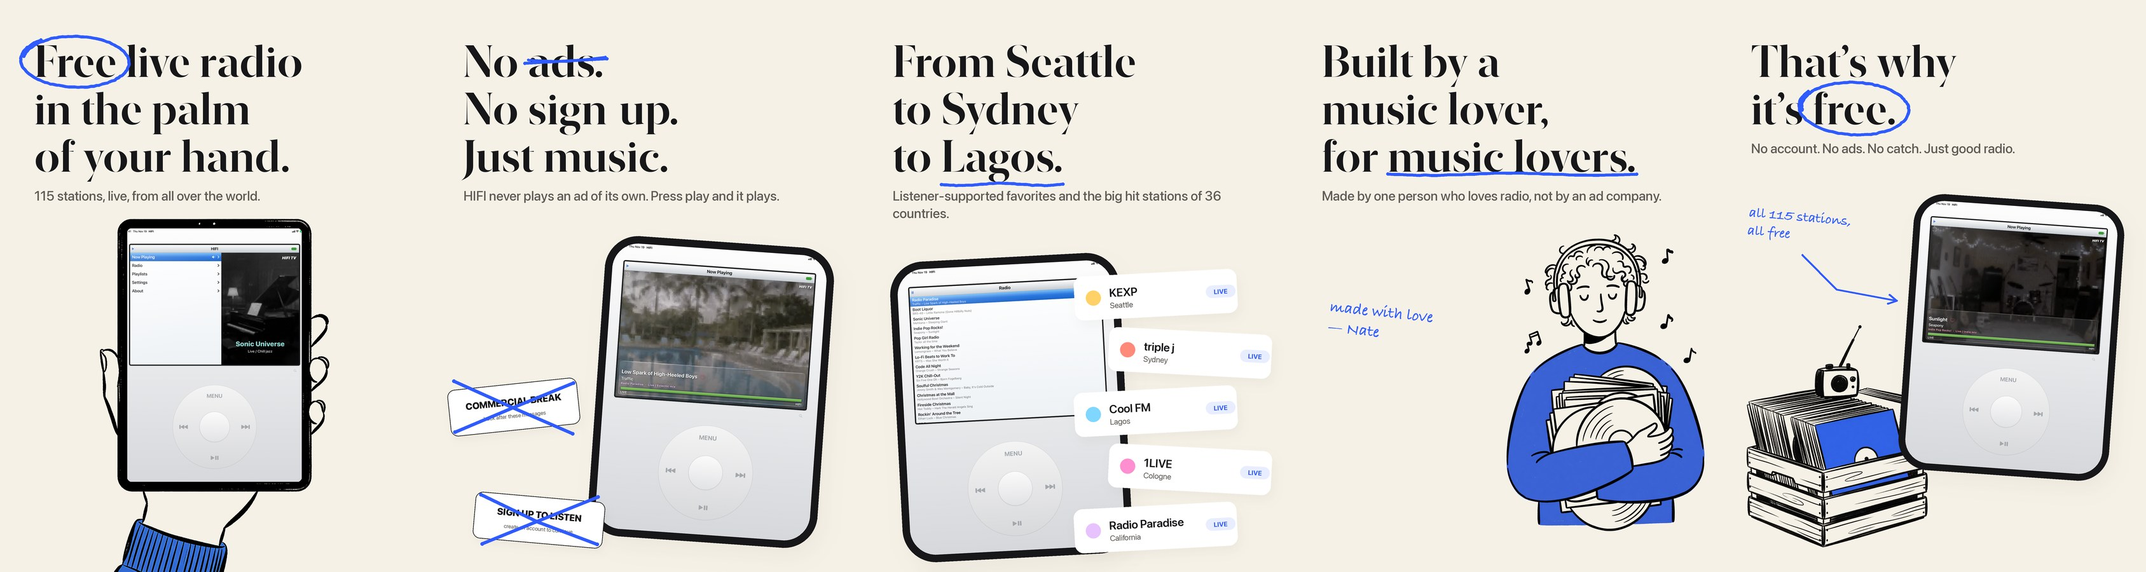
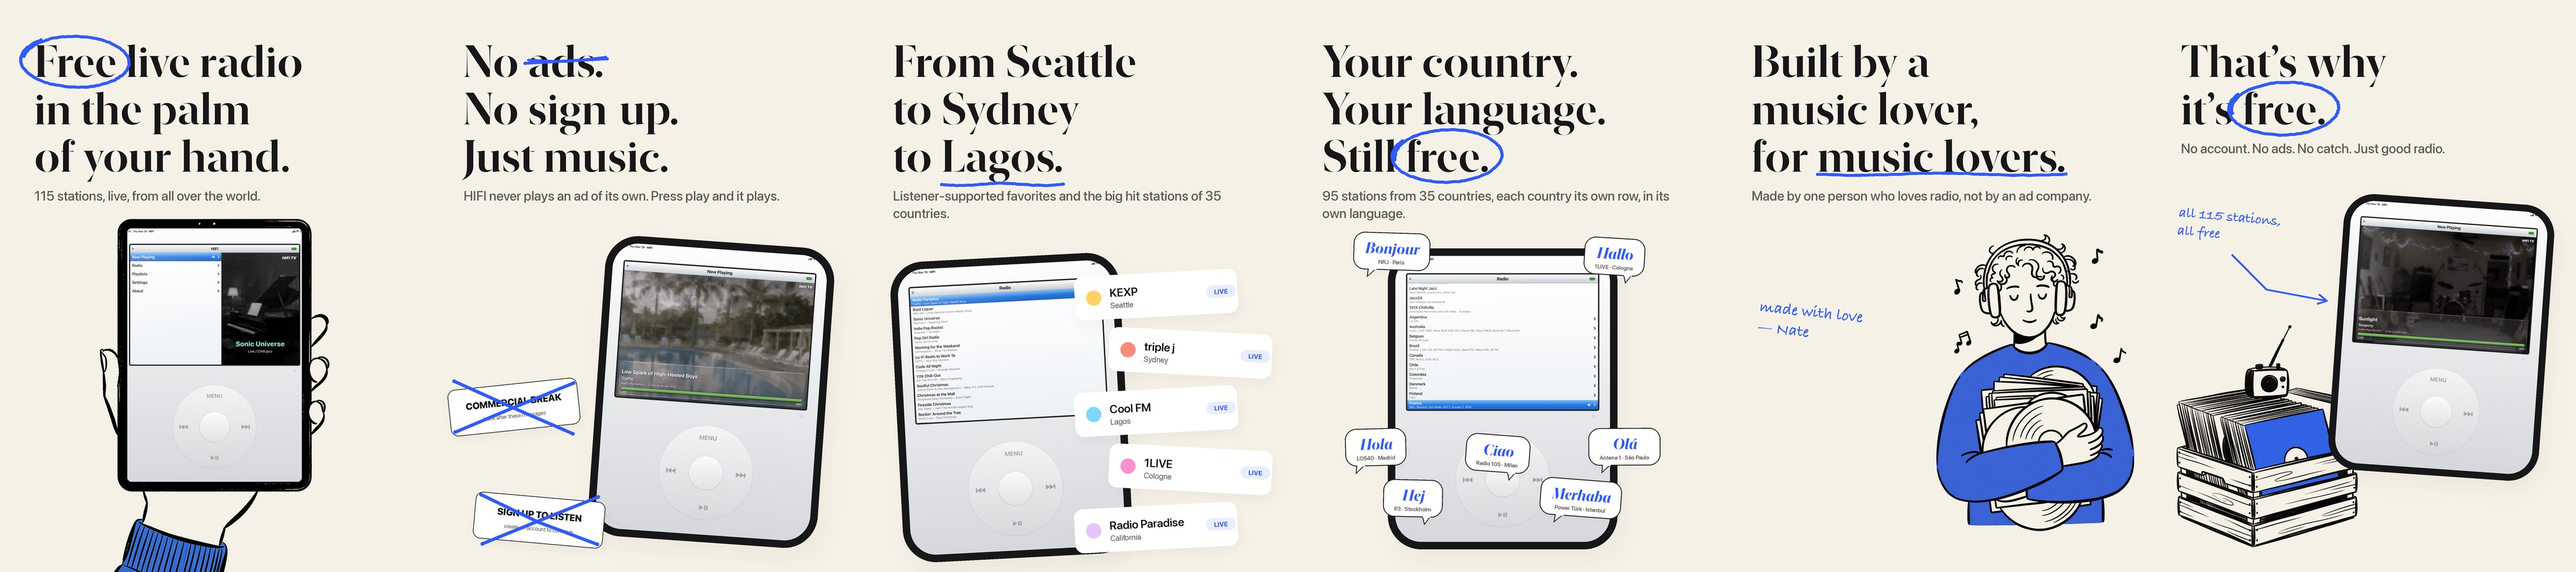
App Store: the story screenshots say HIFI is free with each country's own stations in its own language (Nate, Nov 19: "emphasize that it's free with country specific streams in all the languages that we have"). A new fourth slide, "Your country. Your language. Still free.", shows the Radio list on i

Changed region(s): [[0.0, 0.0622, 0.9956, 0.9956], [0.0, 0.0622, 0.1556, 0.2178], [0.0311, 0.9022, 0.1244, 1.0]]

diff --git a/ios/Sources/IPod.swift b/ios/Sources/IPod.swift
@@ -144,9 +144,16 @@ struct IPodView: View {
                 }
             }
             #endif
-            // App Store screenshots: `-screenshot home|tv|synthTV|radio|synth|nowPlaying|live|playlists|connect` opens that page.
+            // App Store screenshots: `-screenshot home|tv|synthTV|radio|world|synth|nowPlaying|live|playlists|connect` opens that page.
             switch UserDefaults.standard.string(forKey: "screenshot") {
             case "radio", "synth": stack = [.main, .band("radio")]
+            case "world":  // the Radio list on its country rows, a French station playing
+                if let station = radio.stations.first(where: { $0.id == "nrj" }) { radio.tune(station) }
+                stack = [.main, .band("radio")]
+                // after the list is up, so the change scrolls it down to France's row
+                DispatchQueue.main.asyncAfter(deadline: .now() + 1) {
+                    if let index = playingRow("radio") { selection[.band("radio")] = index }
+                }
             case "nowPlaying": radio.start(); stack = [.main, .nowPlaying]
             case "settings": stack = [.main, .settings]
             case "playlists": stack = [.main, .playlists]

diff --git a/ios/scripts/story-screenshots.py b/ios/scripts/story-screenshots.py
@@ -1,7 +1,8 @@
 #!/usr/bin/env python3
-"""The story App Store screenshots: five slides that read as one strip, in an ink-and-paper
-style. Free live radio in your hand; no ads; stations from everywhere; built by a music
-lover for music lovers; that's why it's free.
+"""The story App Store screenshots: six slides that read as one strip, in an ink-and-paper
+style. Free live radio in your hand; no ads; stations from everywhere; your own country's
+stations in your own language, still free; built by a music lover for music lovers; that's
+why it's free. The station and country counts come from stations.json.
 
 Inputs: the raw simulator captures in Screenshots/story/raw/{iphone,ipad} (capture with
 HIFI_SHOTS_RAW=Screenshots/story/raw scripts/capture-screenshots.sh) and the ink drawings in
@@ -26,14 +27,22 @@ INK = (23, 23, 26)
 BLUE = (47, 91, 255)
 MUTED = (96, 92, 86)
 
+# The counts in the copy, from the catalog the apps read.
+_CATALOG = json.loads(STATIONS.read_text())["stations"]
+TOTAL = len(_CATALOG)
+WORLD = sum(1 for x in _CATALOG if x.get("country"))
+COUNTRIES = len({x["country"] for x in _CATALOG if x.get("country")})
+
 # The copy, in order. Each headline is lines of (text, mark); mark is None, "circle" or "strike".
 SLIDES = [
     {"raw": "1-main", "head": [[("Free", "circle"), (" live radio", None)], [("in the palm", None)], [("of your hand.", None)]],
-     "sub": "115 stations, live, from all over the world."},
+     "sub": f"{TOTAL} stations, live, from all over the world."},
     {"raw": "2-tv", "head": [[("No ", None), ("ads.", "strike")], [("No sign-up.", None)], [("Just music.", None)]],
      "sub": "HIFI never plays an ad of its own. Press play and it plays."},
     {"raw": "3-radio", "head": [[("From Seattle", None)], [("to Sydney", None)], [("to ", None), ("Lagos.", "under")]],
-     "sub": "Listener-supported favorites and the big hit stations of 36 countries."},
+     "sub": f"Listener-supported favorites and the big hit stations of {COUNTRIES} countries."},
+    {"raw": "7-world", "head": [[("Your country.", None)], [("Your language.", None)], [("Still ", None), ("free.", "circle")]],
+     "sub": f"{WORLD} stations from {COUNTRIES} countries, each country its own row, in its own language."},
     {"raw": None, "head": [[("Built by a", None)], [("music lover,", None)], [("for ", None), ("music lovers.", "under")]],
      "sub": "Made by one person who loves radio, not by an ad company."},
     {"raw": "4-live", "head": [[("That’s why", None)], [("it’s ", None), ("free.", "circle")]],
@@ -291,6 +300,57 @@ def stations_for_cards():
     return [(name, place, data[sid].get("color") or "#2f5bff") for sid, name, place in picks if sid in data]
 
 
+# Hello in the languages the world stations speak, each with a real station in stations.json:
+# (greeting, script, station id, the station as it's known, city).
+HELLOS = [("Bonjour", "latin", "nrj", "NRJ", "Paris"), ("Hallo", "latin", "1live", "1LIVE", "Cologne"),
+          ("Hola", "latin", "los40", "LOS40", "Madrid"), ("Ciao", "latin", "radio-105", "Radio 105", "Milan"),
+          ("Olá", "latin", "antena-1", "Antena 1", "São Paulo"), ("Hej", "latin", "sr-p3", "P3", "Stockholm"),
+          ("Merhaba", "latin", "power-turk", "Power Türk", "Istanbul"), ("שלום", "hebrew", "galgalatz", "Galgalatz", "Tel Aviv"),
+          ("สวัสดี", "thai", "cool-fahrenheit", "Cool Fahrenheit", "Bangkok"), ("Kumusta", "latin", "love-radio", "Love Radio", "Manila"),
+          ("Cześć", "latin", "rmf-fm", "RMF FM", "Kraków"), ("Halo", "latin", "prambors", "Prambors", "Jakarta"),
+          ("Hoi", "latin", "qmusic", "Qmusic", "Amsterdam"), ("مرحبا", "arabic", "hit-radio", "Hit Radio", "Rabat"),
+          ("Moi", "latin", "ylex", "YleX", "Helsinki"), ("Hei", "latin", "nrk-p3", "NRK P3", "Oslo")]
+
+
+def hello_face(script, size):
+    if script == "hebrew":
+        f = ImageFont.truetype("/System/Library/Fonts/SFHebrew.ttf", size)
+        f.set_variation_by_name("Bold")
+        return f
+    if script == "thai":
+        return ImageFont.truetype("/System/Library/Fonts/Supplemental/Thonburi.ttc", size, index=1)
+    if script == "arabic":
+        return ImageFont.truetype("/System/Library/Fonts/Supplemental/GeezaPro.ttc", size, index=1)
+    return serif(size, "Bold", italic=True)
+
+
+def hellos():
+    """The HELLOS whose station is still in the catalog."""
+    ids = {x["id"] for x in _CATALOG}
+    return [(g, sc, name, city) for g, sc, sid, name, city in HELLOS if sid in ids]
+
+
+def bubble(height, greeting, script, station, city, tail_left=True):
+    """A speech bubble on paper: the hello big in blue, the station and city small under it."""
+    gf = hello_face(script, round(height * 0.4))
+    lf = sans(round(height * 0.15), "Semibold")
+    d0 = ImageDraw.Draw(Image.new("RGB", (1, 1)))
+    label = f"{station} · {city}"
+    w = round(max(d0.textlength(greeting, font=gf), d0.textlength(label, font=lf)) + height * 0.6)
+    tail = round(height * 0.22)
+    c = Image.new("RGBA", (w, height + tail), (0, 0, 0, 0))
+    d = ImageDraw.Draw(c)
+    line = max(3, height // 45)
+    tx = round(w * (0.26 if tail_left else 0.74))
+    d.polygon([(tx - tail * 0.6, height - line * 2), (tx + tail * 0.5, height - line * 2), (tx - tail * 0.2 * (1 if tail_left else -1) - tail * 0.5, height + tail - line)],
+              fill=(255, 255, 255, 255), outline=INK, width=line)
+    d.rounded_rectangle((0, 0, w - 1, height - 1), round(height * 0.3), fill=(255, 255, 255, 255), outline=INK, width=line)
+    d.line([(tx - tail * 0.6 + line, height - line), (tx + tail * 0.5 - line, height - line)], fill=(255, 255, 255, 255), width=line * 2)
+    d.text((w // 2, round(height * 0.42)), greeting, font=gf, fill=BLUE, anchor="mm")
+    d.text((w // 2, round(height * 0.78)), label, font=lf, fill=MUTED, anchor="mm")
+    return c
+
+
 def render(kind):
     raw_dir = STORY / "raw" / kind
     shots = {p.stem: Image.open(p).convert("RGB") for p in raw_dir.glob("*.png")}
@@ -344,27 +404,62 @@ def render(kind):
         cy = tops[2] + round(H * 0.08) + j * round(c.height * 1.32)
         lifted(strip, c.rotate((-1) ** j * 3, resample=Image.BICUBIC, expand=True), (cx, cy))
 
-    # 4. The music lover, the person behind it.
+    # 4. Your country, your language: the Radio list on its country rows, kept clear; the hellos
+    # sit on the phone's top corners and in staggered rows over the click wheel below the list.
     x0 = 3 * W
+    ph = phone(shots["7-world"], round(W * (0.6 if not tablet else 0.5)))
+    bezel = (ph.width - round(W * (0.6 if not tablet else 0.5))) // 2
+    phx, phy = x0 + (W - ph.width) // 2, tops[3] + round(H * 0.045)
+    lifted(strip, ph, (phx, phy))
+    list_end = phy + bezel + round((ph.height - 2 * bezel) * (0.44 if not tablet else 0.55))
+    greet = hellos()
+    bh = round(185 * s)
+    rnd = random.Random(7)
+    made = [bubble(bh, g, sc, name, city, tail_left=k % 2 == 0) for k, (g, sc, name, city) in enumerate(greet)]
+    made = [m.rotate(rnd.uniform(-5, 5), resample=Image.BICUBIC, expand=True) for m in made]
+    # the two corners: half off the phone, over its top bezel and status bar
+    lifted(strip, made[0], (phx - round(made[0].width * 0.45), phy - round(made[0].height * 0.35)), shadow=0.18)
+    lifted(strip, made[1], (phx + ph.width - round(made[1].width * 0.55), phy - round(made[1].height * 0.25)), shadow=0.18)
+    # rows under the list, as many as fit, each row spread across the page
+    y, k, row = list_end + round(H * 0.03), 2, 0
+    while k < len(made):
+        fit, width = [], 0
+        while k + len(fit) < len(made) and width + made[k + len(fit)].width <= W * 0.98 and len(fit) < (3 if row % 2 == 0 else 2):
+            width += made[k + len(fit)].width
+            fit.append(made[k + len(fit)])
+        tallest = max(m.height for m in fit)
+        if y + tallest > H - round(H * 0.012):
+            break
+        gap = (W - width) / (len(fit) + 1)
+        bx = x0 + gap
+        for m in fit:
+            lifted(strip, m, (round(bx), y + rnd.randint(-round(H * 0.006), round(H * 0.006))), shadow=0.18)
+            bx += m.width + gap
+        k += len(fit)
+        y += round(tallest * 0.96)
+        row += 1
+
+    # 5. The music lover, the person behind it.
+    x0 = 4 * W
     if not tablet:
         lover = load_art("lover", round(2150 * s))
         ink(strip, lover, (x0 + (W - lover.width) // 2, H - lover.height + round(80 * s)))
-        spot = (x0 + W - round(W * 0.42), tops[3] + round(H * 0.02))
+        spot = (x0 + W - round(W * 0.42), tops[4] + round(H * 0.02))
     else:  # below the subline, to the right, the note in the space to its left
-        lover = load_art("lover", H - tops[3] + round(H * 0.01))
-        ink(strip, lover, (x0 + W - lover.width + round(W * 0.06), tops[3] - round(H * 0.02)))
-        spot = (x0 + margin, tops[3] + round(H * 0.16))
+        lover = load_art("lover", H - tops[4] + round(H * 0.01))
+        ink(strip, lover, (x0 + W - lover.width + round(W * 0.06), tops[4] - round(H * 0.02)))
+        spot = (x0 + margin, tops[4] + round(H * 0.16))
     note(strip, "made with love\n— Nate", spot, round(64 * s) if not tablet else round(80 * s), angle=-6)
 
-    # 5. The crate of records and the app, playing.
-    x0 = 4 * W
+    # 6. The crate of records and the app, playing.
+    x0 = 5 * W
     crate = load_art("crate", round(1500 * s))
     ink(strip, crate, (x0 - round(crate.width * 0.2), H - crate.height + round(60 * s)))
     ph = phone(shots["4-live"], round(W * 0.48 if not tablet else W * 0.46))
-    lifted(strip, ph, (x0 + W - ph.width - round(W * 0.09), tops[4] + round(H * 0.06)), angle=-4)
-    note(strip, "all 115 stations,\nall free", (x0 + round(W * 0.06), tops[4] + round(H * 0.08)), round(70 * s), angle=-5)
-    arrow(strip, [(x0 + round(W * 0.2), tops[4] + round(H * 0.17)), (x0 + round(W * 0.28), tops[4] + round(H * 0.23)),
-                  (x0 + round(W * 0.42), tops[4] + round(H * 0.25))], round(9 * s), 51)
+    lifted(strip, ph, (x0 + W - ph.width - round(W * 0.09), tops[5] + round(H * 0.06)), angle=-4)
+    note(strip, f"all {TOTAL} stations,\nall free", (x0 + round(W * 0.06), tops[5] + round(H * 0.08)), round(70 * s), angle=-5)
+    arrow(strip, [(x0 + round(W * 0.2), tops[5] + round(H * 0.17)), (x0 + round(W * 0.28), tops[5] + round(H * 0.23)),
+                  (x0 + round(W * 0.42), tops[5] + round(H * 0.25))], round(9 * s), 51)
 
     out = STORY / kind
     out.mkdir(parents=True, exist_ok=True)
@@ -375,7 +470,7 @@ def render(kind):
     print("rendered", kind, W, "x", H)
 
 
-# The Mac set: the same five beats, landscape. The first headline says Mac, not hand.
+# The Mac set: the same six beats, landscape. The first headline says Mac, not hand.
 MAC_FIRST = [[("Free", "circle"), (" live radio", None)], [("on your desk.", None)]]
 
 
@@ -423,18 +518,33 @@ def render_mac():
         c = card(640, name, place, "LIVE", color)
         lifted(strip, c.rotate((-1) ** j * 3, resample=Image.BICUBIC, expand=True),
                (wx + win.width - 220 + (j % 2) * 140, 260 + j * round(c.height * 1.3)))
-    # 4. The music lover.
+    # 4. Your country, your language: the country rows, hellos around the window.
     x0 = 3 * W
+    win = window(shots["7-world"], wh)
+    wx = x0 + W - win.width - 600
+    lifted(strip, win, (wx, (H - win.height) // 2), shadow=0.3)
+    rnd = random.Random(7)
+    greet = hellos()
+    for j, (g, sc, name, city) in enumerate(greet[:12]):
+        b = bubble(190, g, sc, name, city, tail_left=j % 2 == 0).rotate(rnd.uniform(-5, 5), resample=Image.BICUBIC, expand=True)
+        if j < 4:  # under the headline, left of the window
+            bx, by = x0 + margin + (j % 2) * 420, tops[3] + 140 + (j // 2) * 300
+        else:  # two columns to the right of the window
+            k = j - 4
+            bx, by = wx + win.width - 190 + (k % 2) * 330, 110 + (k // 2) * 400 + (k % 2) * 180
+        lifted(strip, b, (bx, min(by, H - b.height - 40)), shadow=0.18)
+    # 5. The music lover.
+    x0 = 4 * W
     lover = load_art("lover", 1750)
     ink(strip, lover, (x0 + W - lover.width - 200, H - lover.height + 40))
-    note(strip, "made with love\n\u2014 Nate", (x0 + margin + 40, tops[3] + 120), 70, angle=-6)
-    # 5. The crate and the app, playing.
-    x0 = 4 * W
+    note(strip, "made with love\n\u2014 Nate", (x0 + margin + 40, tops[4] + 120), 70, angle=-6)
+    # 6. The crate and the app, playing.
+    x0 = 5 * W
     crate = load_art("crate", 950)
     ink(strip, crate, (x0 + 420, H - crate.height + 30))
     win = window(shots["4-live"], wh)
     lifted(strip, win, (x0 + W - win.width - 200, (H - win.height) // 2), shadow=0.3)
-    note(strip, "all 115 stations,\nall free", (x0 + margin + 40, tops[4] + 140), 76, angle=-5)
+    note(strip, f"all {TOTAL} stations,\nall free", (x0 + margin + 40, tops[5] + 140), 76, angle=-5)
     out = STORY / "mac"
     out.mkdir(parents=True, exist_ok=True)
     for i in range(N):
